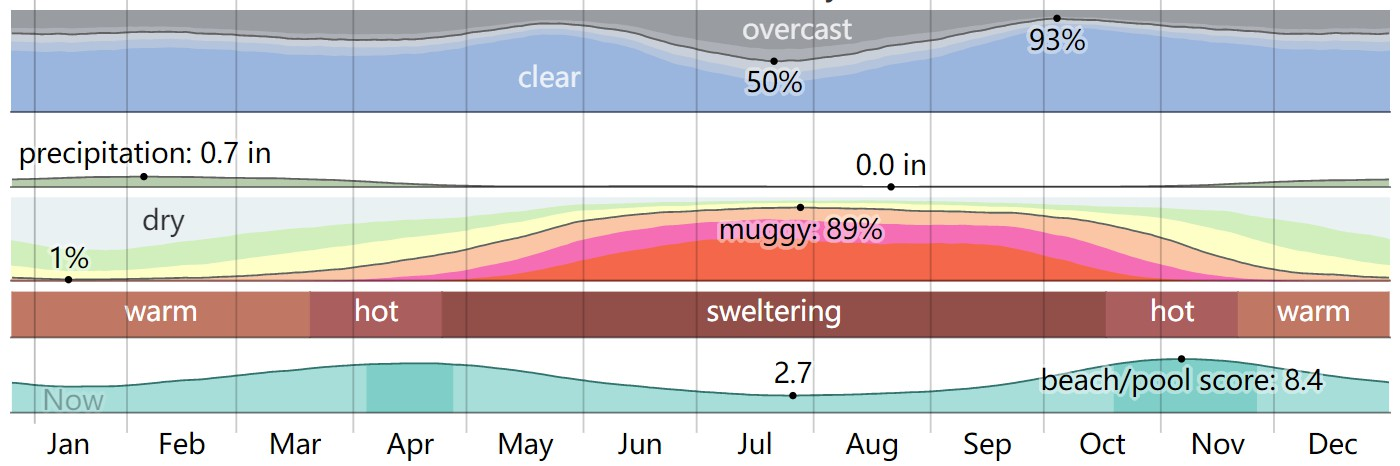
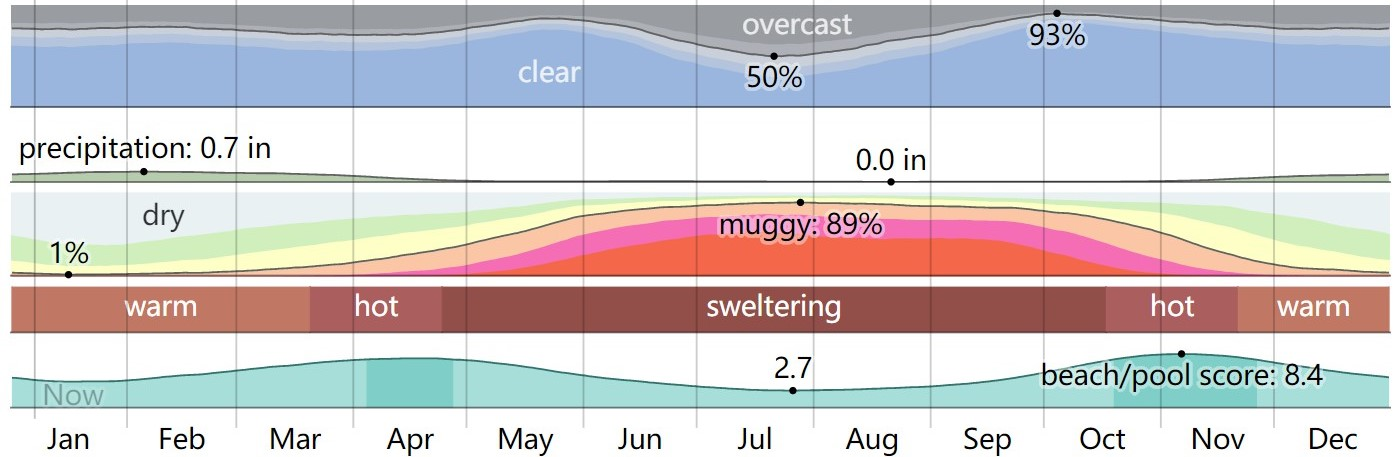
add and update pages

diff --git a/components/climate.html b/components/climate.html
@@ -1,25 +1,191 @@
 <div class="container-fluid">
     <div class="tmc-home-body">
-      <h1 class="animated bounceInLeft" data-tr-zh="迪拜气候条件" >Climate Conditions in Dubai</h1>
-      <div style="text-align: center;"><img src="./assets/scut.jpg" style="width: 80%;"></div>
-      <p data-tr-key="tr-scut-1">
-        Located in Guangzhou, South China University of Technology is a national key university directly under the Ministry of education. It is the first winner of "national civilized campus". The school has a long history, which can be traced back to 1918 and it was formally established in 1952 during the adjustment of national institutions of higher learning, and became one of the four major engineering colleges in New China. In 2017, it was selected into the list of "double first-class" construction class A universities, and ranked 201-300 in the "Academic Ranking of World Universities" in 2018.
-      </p>
-      <p data-tr-key="tr-scut-2">
-        Nowadays, South China University of Technology has developed into a comprehensive research university with the combination of science, engineering and medicine, and the coordinated development of management, economics, literature, law and other disciplines. Light industry technology and engineering, architecture, food science and engineering, chemical engineering and technology, environmental science and engineering, material science and engineering, mechanical engineering, management science and engineering and other disciplines have reached the top 10% in China as a whole; 9 disciplines have entered the top 1% of ESI in the world, including engineering, material science, chemistry and agricultural science In the first 1 ‰, the number of selected colleges and universities ranked sixth in the country and the first in South China.
-      </p>
-      <p data-tr-key="tr-scut-3">
-        Since its establishment, the university has trained more than 510000 students of all kinds in higher education for the country, and a large number of alumni have become the backbone of science and technology, famous entrepreneurs and leading cadres in China. The university is known as the cradle of engineers and entrepreneurs. The employment rate of graduates has been in the forefront of colleges and universities in China and Guangdong Province for many years. In 2017, it was selected as the national "mass entrepreneurship and innovation" demonstration base.
-      </p>
-      <p data-tr-key="tr-scut-4">
-        The university promotes the construction of first-class universities with strong original scientific research and innovation ability, and has 27 national scientific research platforms and 185 provincial and ministerial scientific research platforms, ranking first in the number of universities in China and Guangdong. Since 2009, the number of Chinese patent awards has ranked first in Colleges and universities in China; in 2015, the index of patent technology transfer ranked first in Colleges and universities in China.
-      </p>
-      <p data-tr-key="tr-scut-5">
-        In 2017, the Guangzhou International Campus of South China University of technology was signed by the Ministry of education, Guangdong Province, Guangzhou City and South China University of technology, which is a new engine for the construction and development of "double first class" of the University, and also a new exploration of higher education in China. The campus adopts the way of "Chinese based, international coordination", relying on the existing superior discipline resources and science and engineering characteristics of the University, and in combination with Oxford University, Michigan University and other no less than 20 world-famous first-class universities, striving to build a world-class demonstration campus with high level, international, research-oriented and new engineering characteristics.
-      </p>
-      <p data-tr-key="tr-scut-6">
-        In the new historical development starting point, the university put forward the strategic goal of building a world-class university in 2052. The school will adhere to the motto of "erudite, thoughtful and practical", adhere to the spirit of "building the school with academic knowledge, strengthening the school with talents, opening the school to the outside world, developing the school with culture", carry forward the spirit of "upholding virtue and learning, striving for self-improvement, pragmatic innovation and excellence", seize the important opportunity of "double first-class" construction and Guangzhou International Campus Construction, adhere to the development of connotation, deepen comprehensive reform, comprehensively improve quality and face the world The goal of a world-class university is to forge ahead.
-      </p>
+      <h1 class="animated bounceInLeft" data-tr-zh="迪拜气候条件">Climate Conditions in Dubai</h1>
+      <p data-tr-key="tr-climate-1">In Dubai, the summers are long, sweltering, oppressive, arid, and partly cloudy and the winters are comfortable, dry, and mostly clear. Over the course of the year, the temperature typically varies from 57°F to 106°F and is rarely below 52°F or above 112°F.</p>
+      <p data-tr-key="tr-climate-2">Based on the beach/pool score, the best times of year to visit Dubai for hot-weather activities are for the entire month of April and from mid October to late November.</p>
+      <div style="text-align: center;">
+        <img src="./assets/climate/climate_summary.jpg" style="width: 80%;">
+        <div>
+          <span data-tr-zh="气候概要">Climate Summary &nbsp &nbsp</span>
+          <a href="https://weatherspark.com/y/105470/Average-Weather-in-Dubai-United-Arab-Emirates-Year-Round" style="text-decoration: none; color: grey;" data-tr-zh="图表来源：Weather Spark">(Table Source: Weather Spark)</a>
+        </div>
+      </div>
+
+      <h2 data-tr-zh="温度" >Temperature</h2>
+      <p data-tr-key="tr-temperature-1">The hot season lasts for 4.3 months, from May 13 to September 23, with an average daily high temperature above 100°F. The hottest day of the year is August 1, with an average high of 106°F and low of 86°F.</p>
+      <p data-tr-key="tr-temperature-2">The cool season lasts for 3.1 months, from December 2 to March 4, with an average daily high temperature below 81°F. The coldest day of the year is January 15, with an average low of 57°F and high of 75°F.</p>
+      <div style="text-align: center;">
+        <img src="./assets/climate/average_temperature.jpg" style="width: 80%;">
+        <div>
+          <span data-tr-zh="平均高温和低温">Average High and Low Temperature &nbsp &nbsp</span>
+          <a href="https://weatherspark.com/y/105470/Average-Weather-in-Dubai-United-Arab-Emirates-Year-Round" style="text-decoration: none; color: grey;" data-tr-zh="图表来源：Weather Spark">(Table Source: Weather Spark)</a>
+        </div>
+        <p data-tr-key="tr-temperature-3" style="text-align: center; margin-top: 0.5em; margin-left: 20%; margin-right: 20%; color:grey; font-size: 0.7em;">The daily average high (red line) and low (blue line) temperature, with 25th to 75th and 10th to 90th percentile bands. The thin dotted lines are the corresponding average perceived temperatures.</p>
+      </div>
+      <p data-tr-key="tr-temperature-4">The figure below shows you a compact characterization of the entire year of hourly average temperatures. The horizontal axis is the day of the year, the vertical axis is the hour of the day, and the color is the average temperature for that hour and day.</p>
+      <div style="text-align: center;">
+        <img src="./assets/climate/hourly_temperature.jpg" style="width: 80%;">
+        <div>
+          <span data-tr-zh="平均小时气温">Average Hourly Temperature &nbsp &nbsp</span>
+          <a href="https://weatherspark.com/y/105470/Average-Weather-in-Dubai-United-Arab-Emirates-Year-Round" style="text-decoration: none; color: grey;">(Table Source: Weather Spark)</a></span>
+        <p data-tr-key="tr-temperature-5" style="text-align: center; margin-top: 0.5em; margin-left: 20%; margin-right: 20%; color:grey; font-size: 0.7em;">The average hourly temperature, color coded into bands. The shaded overlays indicate night and civil twilight.</p>
+        </div>
+      </div>
+
+      <h2 data-tr-zh="云彩" >Clouds</h2>
+      <p data-tr-key="tr-cloud-1">In Dubai, the average percentage of the sky covered by clouds experiences significant seasonal variation over the course of the year.</p>
+      <p data-tr-key="tr-cloud-2">The clearer part of the year in Dubai begins around September 1 and lasts for 6.9 months, ending around March 31. On October 4, the clearest day of the year, the sky is clear, mostly clear, or partly cloudy 93% of the time, and overcast or mostly cloudy 7% of the time.</p>
+      <p data-tr-key="tr-cloud-3">The cloudier part of the year begins around March 31 and lasts for 5.1 months, ending around September 1. On July 21, the cloudiest day of the year, the sky is overcast or mostly cloudy 50% of the time, and clear, mostly clear, or partly cloudy 50% of the time.</p>
+      <div style="text-align: center;">
+        <img src="./assets/climate/cloud.jpg" style="width: 80%;">
+        <div>
+          <span data-tr-zh="云量类别">Cloud Cover Categories &nbsp &nbsp</span>
+          <a href="https://weatherspark.com/y/105470/Average-Weather-in-Dubai-United-Arab-Emirates-Year-Round" style="text-decoration: none; color: grey;">(Table Source: Weather Spark)</a></span>
+        <p data-tr-key="tr-cloud-4" style="text-align: center; margin-top: 0.5em; margin-left: 20%; margin-right: 20%; color:grey; font-size: 0.7em;">The percentage of time spent in each cloud cover band, categorized by the percentage of the sky covered by clouds.</p>
+        </div>
+      </div>
+
+      <h2 data-tr-zh="降水" >Precipitation</h2>
+      <p data-tr-key="tr-preci-1">Dubai does not experience significant seasonal variation in the frequency of wet days (i.e., those with greater than 0.04 inches of liquid or liquid-equivalent precipitation). The frequency ranges from 0% to 8%, with an average value of 3%.</p>
+      <p data-tr-key="tr-preci-2">Among wet days, we distinguish between those that experience rain alone, snow alone, or a mixture of the two. Based on this categorization, the most common form of precipitation throughout the year is rain alone, with a peak probability of 8% on March 14.</p>
+      <div style="text-align: center;">
+        <img src="./assets/climate/precipitation.jpg" style="width: 80%;">
+        <div>
+          <span data-tr-zh="每日降水机率">Daily Chance of Precipitation &nbsp &nbsp</span>
+          <a href="https://weatherspark.com/y/105470/Average-Weather-in-Dubai-United-Arab-Emirates-Year-Round" style="text-decoration: none; color: grey;">(Table Source: Weather Spark)</a></span>
+        <p data-tr-key="tr-preci-3" style="text-align: center; margin-top: 0.5em; margin-left: 20%; margin-right: 20%; color:grey; font-size: 0.7em;">The percentage of days in which various types of precipitation are observed, excluding trace quantities: rain alone, snow alone, and mixed (both rain and snow fell in the same day).</p>
+        </div>
+      </div>
+
+
+      <h2 data-tr-zh="降雨量" >Rainfall</h2>
+      <p data-tr-key="tr-rain-1">To show variation within the months and not just the monthly totals, we show the rainfall accumulated over a sliding 31-day period centered around each day of the year. Dubai experiences some seasonal variation in monthly rainfall.</p>
+      <p data-tr-key="tr-rain-2">The rainy period of the year lasts for 2.4 months, from January 6 to March 17, with a sliding 31-day rainfall of at least 0.5 inches. The most rain falls during the 31 days centered around February 5, with an average total accumulation of 0.7 inches.</p>
+      <p data-tr-key="tr-rain-3">The rainless period of the year lasts for 9.6 months, from March 17 to January 6. The least rain falls around August 21, with an average total accumulation of 0.0 inches.</p>
+      <div style="text-align: center;">
+        <img src="./assets/climate/rainfall.jpg" style="width: 80%;">
+        <div>
+          <span data-tr-zh="平均月降雨量">Average Monthly Rainfall &nbsp &nbsp</span>
+          <a href="https://weatherspark.com/y/105470/Average-Weather-in-Dubai-United-Arab-Emirates-Year-Round" style="text-decoration: none; color: grey;">(Table Source: Weather Spark)</a></span>
+        <p data-tr-key="tr-rain-4" style="text-align: center; margin-top: 0.5em; margin-left: 20%; margin-right: 20%; color:grey; font-size: 0.7em;">The average rainfall (solid line) accumulated over the course of a sliding 31-day period centered on the day in question, with 25th to 75th and 10th to 90th percentile bands. The thin dotted line is the corresponding average liquid-equivalent snowfall.</p>
+        </div>
+      </div>
+
+      <h2 data-tr-zh="日照" >Sun</h2>
+      <p data-tr-key="tr-sun-1">The length of the day in Dubai varies over the course of the year. In 2020, the shortest day is December 21, with 10 hours, 35 minutes of daylight; the longest day is June 21, with 13 hours, 42 minutes of daylight.</p>
+      <div style="text-align: center;">
+        <img src="./assets/climate/sun.jpg" style="width: 80%;">
+        <div>
+          <span data-tr-zh="日光和曙光/暮光时数">Hours of Daylight and Twilight &nbsp &nbsp</span>
+          <a href="https://weatherspark.com/y/105470/Average-Weather-in-Dubai-United-Arab-Emirates-Year-Round" style="text-decoration: none; color: grey;">(Table Source: Weather Spark)</a></span>
+        <p data-tr-key="tr-sun-2" style="text-align: center; margin-top: 0.5em; margin-left: 20%; margin-right: 20%; color:grey; font-size: 0.7em;">The number of hours during which the Sun is visible (black line). From bottom (most yellow) to top (most gray), the color bands indicate: full daylight, twilight (civil, nautical, and astronomical), and full night.</p>
+        </div>
+      </div>
+      <p data-tr-key="tr-sun-3">The earliest sunrise is at 5:28 AM on June 9, and the latest sunrise is 1 hour, 38 minutes later at 7:06 AM on January 14. The earliest sunset is at 5:29 PM on November 29, and the latest sunset is 1 hour, 44 minutes later at 7:13 PM on July 1.</p>
+      <div style="text-align: center;">
+        <img src="./assets/climate/sunrise_set.jpg" style="width: 80%;">
+        <div>
+          <span data-tr-zh="伴有曙光/暮光的日出和日落">Sunrise & Sunset with Twilight &nbsp &nbsp</span>
+          <a href="https://weatherspark.com/y/105470/Average-Weather-in-Dubai-United-Arab-Emirates-Year-Round" style="text-decoration: none; color: grey;">(Table Source: Weather Spark)</a></span>
+        <p data-tr-key="tr-sun-4" style="text-align: center; margin-top: 0.5em; margin-left: 20%; margin-right: 20%; color:grey; font-size: 0.7em;">The solar day over the course of the year 2020. From bottom to top, the black lines are the previous solar midnight, sunrise, solar noon, sunset, and the next solar midnight. The day, twilights (civil, nautical, and astronomical), and night are indicated by the color bands from yellow to gray.</p>
+        </div>
+      </div>
+
+      <h2 data-tr-zh="太阳能" >Solar Energy</h2>
+      <p data-tr-key="tr-solar-1">This section discusses the total daily incident shortwave solar energy reaching the surface of the ground over a wide area, taking full account of seasonal variations in the length of the day, the elevation of the Sun above the horizon, and absorption by clouds and other atmospheric constituents. Shortwave radiation includes visible light and ultraviolet radiation.</p>
+      <p data-tr-key="tr-solar-2">The average daily incident shortwave solar energy experiences significant seasonal variation over the course of the year.</p>
+      <p data-tr-key="tr-solar-3">The brighter period of the year lasts for 2.6 months, from April 25 to July 12, with an average daily incident shortwave energy per square meter above 7.2 kWh. The brightest day of the year is June 3, with an average of 8.0 kWh.</p>
+      <p data-tr-key="tr-solar-4">The darker period of the year lasts for 2.9 months, from November 10 to February 5, with an average daily incident shortwave energy per square meter below 4.9 kWh. The darkest day of the year is December 19, with an average of 4.1 kWh.</p>
+      <div style="text-align: center;">
+        <img src="./assets/climate/solar.jpg" style="width: 80%;">
+        <div>
+          <span data-tr-zh="平均每日入射短波太阳能">Average Daily Incident Shortwave Solar Energy &nbsp &nbsp</span>
+          <a href="https://weatherspark.com/y/105470/Average-Weather-in-Dubai-United-Arab-Emirates-Year-Round" style="text-decoration: none; color: grey;">(Table Source: Weather Spark)</a></span>
+        <p data-tr-key="tr-solar-5" style="text-align: center; margin-top: 0.5em; margin-left: 20%; margin-right: 20%; color:grey; font-size: 0.7em;">The average daily shortwave solar energy reaching the ground per square meter (orange line), with 25th to 75th and 10th to 90th percentile bands.</p>
+        </div>
+      </div>
+
+      <h2 data-tr-zh="湿度" >Humidity</h2>
+      <p data-tr-key="tr-humid-1">We base the humidity comfort level on the dew point, as it determines whether perspiration will evaporate from the skin, thereby cooling the body. Lower dew points feel drier and higher dew points feel more humid. Unlike temperature, which typically varies significantly between night and day, dew point tends to change more slowly, so while the temperature may drop at night, a muggy day is typically followed by a muggy night.</p>
+      <p data-tr-key="tr-humid-2">Dubai experiences extreme seasonal variation in the perceived humidity.</p>
+      <p data-tr-key="tr-humid-3">The muggier period of the year lasts for 7.3 months, from April 12 to November 21, during which time the comfort level is muggy, oppressive, or miserable at least 23% of the time. The muggiest day of the year is July 28, with muggy conditions 89% of the time.</p>
+      <p data-tr-key="tr-humid-4">The least muggy day of the year is January 16, with muggy conditions 1% of the time.</p>
+      <div style="text-align: center;">
+        <img src="./assets/climate/humidity.jpg" style="width: 80%;">
+        <div>
+          <span data-tr-zh="湿度舒适水平">Humidity Comfort Levels &nbsp &nbsp</span>
+          <a href="https://weatherspark.com/y/105470/Average-Weather-in-Dubai-United-Arab-Emirates-Year-Round" style="text-decoration: none; color: grey;">(Table Source: Weather Spark)</a></span>
+        <p data-tr-key="tr-humid-5" style="text-align: center; margin-top: 0.5em; margin-left: 20%; margin-right: 20%; color:grey; font-size: 0.7em;">The percentage of time spent at various humidity comfort levels, categorized by dew point.</p>
+        </div>
+      </div>
+
+      <h2 data-tr-zh="刮风" >Wind</h2>
+      <p data-tr-key="tr-wind-1">This section discusses the wide-area hourly average wind vector (speed and direction) at 10 meters above the ground. The wind experienced at any given location is highly dependent on local topography and other factors, and instantaneous wind speed and direction vary more widely than hourly averages.</p>
+      <p data-tr-key="tr-wind-2">The average hourly wind speed in Dubai experiences mild seasonal variation over the course of the year.</p>
+      <p data-tr-key="tr-wind-3">The windier part of the year lasts for 5.2 months, from December 30 to June 6, with average wind speeds of more than 8.1 miles per hour. The windiest day of the year is March 14, with an average hourly wind speed of 9.3 miles per hour.</p>
+      <p data-tr-key="tr-wind-4">The calmer time of year lasts for 6.7 months, from June 6 to December 30. The calmest day of the year is October 11, with an average hourly wind speed of 6.9 miles per hour.</p>
+      <div style="text-align: center;">
+        <img src="./assets/climate/wind_speed.jpg" style="width: 80%;">
+        <div>
+          <span data-tr-zh="平均风速">Average Wind Speed &nbsp &nbsp</span>
+          <a href="https://weatherspark.com/y/105470/Average-Weather-in-Dubai-United-Arab-Emirates-Year-Round" style="text-decoration: none; color: grey;">(Table Source: Weather Spark)</a></span>
+        <p data-tr-key="tr-wind-5" style="text-align: center; margin-top: 0.5em; margin-left: 20%; margin-right: 20%; color:grey; font-size: 0.7em;">The average of mean hourly wind speeds (dark gray line), with 25th to 75th and 10th to 90th percentile bands.</p>
+        </div>
+      </div>
+      <p data-tr-key="tr-wind-6">The predominant average hourly wind direction in Dubai varies throughout the year.</p>
+      <p data-tr-key="tr-wind-7">The wind is most often from the east for 4.3 weeks, from August 2 to September 1, with a peak percentage of 32% on August 18. The wind is most often from the west for 11 months, from September 1 to August 2, with a peak percentage of 51% on January 1.</p>
+      <div style="text-align: center;">
+        <img src="./assets/climate/wind_direction.jpg" style="width: 80%;">
+        <div>
+          <span>Direction &nbsp &nbsp</span>
+          <a href="https://weatherspark.com/y/105470/Average-Weather-in-Dubai-United-Arab-Emirates-Year-Round" style="text-decoration: none; color: grey;">(Table Source: Weather Spark)</a></span></span>
+        <p data-tr-key="tr-wind-8" style="text-align: center; margin-top: 0.5em; margin-left: 20%; margin-right: 20%; color:grey; font-size: 0.7em;">The percentage of hours in which the mean wind direction is from each of the four cardinal wind directions, excluding hours in which the mean wind speed is less than 1.0 mph. The lightly tinted areas at the boundaries are the percentage of hours spent in the implied intermediate directions (northeast, southeast, southwest, and northwest).</p>
+        </div>
+      </div>
+
+      <h2 data-tr-zh="水温" >Water Temperature</h2>
+      <p data-tr-key="tr-water-1">Dubai is located near a large body of water (e.g., ocean, sea, or large lake). This section reports on the wide-area average surface temperature of that water.</p>
+      <p data-tr-key="tr-water-2">The average water temperature experiences significant seasonal variation over the course of the year.</p>
+      <p data-tr-key="tr-water-3">The time of year with warmer water lasts for 4.1 months, from June 12 to October 15, with an average temperature above 88°F. The day of the year with the warmest water is August 6, with an average temperature of 92°F.</p>
+      <p data-tr-key="tr-water-4">The time of year with cooler water lasts for 3.3 months, from December 25 to April 4, with an average temperature below 75°F. The day of the year with the coolest water is February 9, with an average temperature of 71°F.</p>
+      <div style="text-align: center;">
+        <img src="./assets/climate/water_temperature.jpg" style="width: 80%;">
+        <div>
+          <span data-tr-zh="平均水温">Average Water Temperature &nbsp &nbsp</span>
+          <a href="https://weatherspark.com/y/105470/Average-Weather-in-Dubai-United-Arab-Emirates-Year-Round" style="text-decoration: none; color: grey;">(Table Source: Weather Spark)</a></span>
+        <p data-tr-key="tr-water-5" style="text-align: center; margin-top: 0.5em; margin-left: 20%; margin-right: 20%; color:grey; font-size: 0.7em;">The daily average water temperature (purple line), with 25th to 75th and 10th to 90th percentile bands.</p>
+        </div>
+      </div>
+
+      <h2 data-tr-zh="最佳拜访时间" >Best Time of Year to Visit</h2>
+      <p data-tr-key="tr-visit-1">To characterize how pleasant the weather is in Dubai throughout the year, we compute two travel scores.</p>
+      <p data-tr-key="tr-visit-2">The tourism score favors clear, rainless days with perceived temperatures between 65°F and 80°F. Based on this score, the best time of year to visit Dubai for general outdoor tourist activities is from mid November to late March, with a peak score in the third week of December.</p>
+      <div style="text-align: center;">
+        <img src="./assets/climate/besttime.jpg" style="width: 80%;">
+        <div>
+          <span data-tr-zh="旅游得分">Score &nbsp &nbsp</span>
+          <a href="https://weatherspark.com/y/105470/Average-Weather-in-Dubai-United-Arab-Emirates-Year-Round" style="text-decoration: none; color: grey;">(Table Source: Weather Spark)</a></span></span>
+        <p data-tr-key="tr-visit-3" style="text-align: center; margin-top: 0.5em; margin-left: 20%; margin-right: 20%; color:grey; font-size: 0.7em;">The tourism score (filled area), and its constituents: the temperature score (red line), the cloud cover score (blue line), and the precipitation score (green line).</p>
+        </div>
+      </div>
+      <p data-tr-key="tr-visit-4">The beach/pool score favors clear, rainless days with perceived temperatures between 75°F and 90°F. Based on this score, the best times of year to visit Dubai for hot-weather activities are for the entire month of April and from mid October to late November, with a peak score in the first week of November.</p>
+      <div style="text-align: center;">
+        <img src="./assets/climate/beachpool_score.jpg" style="width: 80%;">
+        <div>
+          <span data-tr-zh="沙滩/泳池得分">Beach/Pool Score &nbsp &nbsp</span>
+          <a href="https://weatherspark.com/y/105470/Average-Weather-in-Dubai-United-Arab-Emirates-Year-Round" style="text-decoration: none; color: grey;">(Table Source: Weather Spark)</a></span>
+        <p data-tr-key="tr-visit-5" style="text-align: center; margin-top: 0.5em; margin-left: 20%; margin-right: 20%; color:grey; font-size: 0.7em;">The beach/pool score (filled area), and its constituents: the temperature score (red line), the cloud cover score (blue line), and the precipitation score (green line).</p>
+        </div>
+      </div>
+
+
+
+
+
+
+
+
+
     </div>
   </div>
   

diff --git a/common.js b/common.js
@@ -60,6 +60,76 @@ window.dict = {
   "sdc18-4": "(3) 高效能源：从设备到调控各层面减少房屋带来的能源与资源的损耗，我们鼓励环保绿色节能的设计与生活方式。在有限的屋面面积下，高效的整合光伏系统。",
   "sdc18-5": "(4) 智能管家：长屋智能管家掌握一套机器学习算法(AI)，通过实时数据与用户反馈计算出满足舒适需求同时最节能的设备运作模式并自动调控。完善便捷的智能交互系统，适用于年轻人的生活情景，智能的能源管理系统可以让住户方便的管控房屋的水电设备。",
   "sdc18-6": "长屋计划获得了SDC2018总分冠军，工程设计第一名、创新能力第一名、市场潜力第二名、建筑设计第二名、宣传推广第四名的好成绩。",
+  "tr-climate-1": "在迪拜，夏季长、酷热、闷热难受、干旱和部分多云，冬季舒适、干燥和大部分晴天。 在一年中，气温通常在14°C到41°C之间变化，极少低于11°C或高于44°C。",
+  "tr-climate-2": "根据沙滩/泳池得分，拜访迪拜开展热天活动的最佳时间是四月整月和从十月中旬至十一月下旬。",
+  "tr-temperature-1": "炎热季节持续4.3个月，从5月13日到9月23日，每日平均高温超过38°C。 一年中最热的一天是8月1日，平均高温为41°C，平均低温为30°C。",
+  "tr-temperature-2": "凉爽季节持续3.1个月，从12月2日到3月4日，每日平均高温低于27°C。 一年中最冷的一天是1月15日，平均低温为14°C，平均高温为24°C。",
+  "tr-temperature-3": "用第25-75和第10-90百分位区间表示的每日平均高温（红线）和低温（蓝线）。 细虚线是对应的平均感知气温。",
+  "tr-temperature-4": "下图向您显示全年每小时平均气温的简要特征。 横轴表示一年中的天，纵轴表示一天中的小时，颜色是该小时和天的平均气温。",
+  "tr-temperature-5": "每小时平均温度，加以数带着色。 阴影叠加表示夜晚和民用曙光/暮光。",
+  "tr-cloud-1": "在迪拜，天空被云彩覆盖的平均百分比全年经历较大的季节性变化。",
+  "tr-cloud-2": "在迪拜，一年中较晴朗的天气在9月1日前后开始，持续6.9个月，在3月31日前后终止。 10月4日是一年中最晴朗的日子，93%的时间天空晴朗、大部分晴朗或部分多云，7%的时间多云或大部分多云。",
+  "tr-cloud-3": "一年中较多云的天气在3月31日前后开始，持续5.1个月，在9月1日前后终止。 7月21日是一年中最多云的日子，50%的时间天空多云或大部分多云，50%的时间晴朗、大部分晴朗或部分多云。",
+  "tr-cloud-4": "在每一云彩覆盖带所花时间的百分比，按天空被云彩覆盖的百分比分类。",
+  "tr-preci-1": "迪拜在潮湿天气（即有超过1毫米水分或水当量降水的天气）频率方面有较大的季节性变化。 频率范围从0%到8%，平均值为3%。",
+  "tr-preci-2": "我们将潮湿的天气区分为仅下雨、仅下雪或雨夹雪。 根据本分类，全年最常见的降水形式是仅下雨，其峰值概率为8%，在3月14日。",
+  "tr-preci-3": "观察到不同类型降水的天数百分比（不包括微量）：仅为雨水、仅为雪水和雨雪混合（同一天既下雨又下雪）。",
+  "tr-rain-1": "为了显示几个月内的变化，而不仅仅是显示每月总量，我们显示以一年中的每一天为中心的、连续31天阶段的累计降雨量，。 迪拜的每月降雨量有一些季节性变化。",
+  "tr-rain-2": "一年的多雨阶段持续2.4个月，从1月6日到3月17日，其相关31天的降雨量至少为13毫米。 在以2月5日为中心的31天期间降雨最多，平均总累计雨量为17毫米。",
+  "tr-rain-3": "一年中最少降雨的阶段持续9.6个月，从3月17日到1月6日。 最少雨的日期在8月21日前后，平均总累计降雨量为0毫米。",
+  "tr-rain-4": "用第25-75和第10-90百分位区间表示在滑动31天期间累积、以相关日期为中心的平均降雨（实线）。 细虚线是对应的平均水当量降雪。",
+  "tr-sun-1": "迪拜的白天长度全年变化。 2020年，最短的一天是12月21日，有10小时35分钟的日光；最长的一天是6月21日，有13小时42分钟的日光。",
+  "tr-sun-2": "可见太阳的时数（黑线）。 从下（最深的黄色）至上（最深的灰色），颜色带表示：全日光、曙光/暮光（民用、航海和天文）和全黑夜。",
+  "tr-sun-3": "最早的日出日期和时间是6月9日 上午5:28，最晚的日出时间比最早的日出时间晚1小时38分钟，在1月14日 上午7:06。 最早的日落日期和时间是11月29日 下午5:29，最晚的日落时间比最早的日落时间晚1小时44分钟，在7月1日 下午7:13。",
+  "tr-sun-4": "2020年的太阳日。 从下至上，黑线是前一个日照午夜、日出、日照中午、日落和下一个日照午夜。 白天、曙光/暮光（民用、航海和天文）和夜晚用从黄色到灰色颜色带表。",
+  "tr-solar-1": "本节讨论达到大面积地表的总每日入射短波太阳能，全面考虑白天长度、太阳超过地平线的高度以及被云彩和其他大气成分吸收的季节性变化。 短波辐射包括可见光和紫外线辐射。",
+  "tr-solar-2": "平均每日入射短波太阳能全年经历较大季节性变化。",
+  "tr-solar-3": "一年中较明亮的阶段持续2.6个月，从4月25日到7月12日，每平方米平均每日入射短波能量超过7.2千瓦时。 一年中最明亮的一天是6月3日，平均能量为8.0千瓦时。",
+  "tr-solar-4": "一年中较黑暗的阶段持续2.9个月，从11月10日到2月5日，每平方米平均每日入射短波能量低于4.9千瓦时。 一年中最黑暗的一天是12月19日，平均能量为4.1千瓦时。",
+  "tr-solar-5": "用第25-75和第10-90百分位区间表示的每平方米达到地面的平均每日短波太阳能（橘黄线条）。",
+  "tr-humid-1": "我们根据露点确定湿度舒适度，因为露点决定汗水是否会从皮肤上蒸发，从而使身体感到凉爽。 较低的露点产生较干燥的感觉，较高的露点产生较潮湿的感觉。 与气温不同（气温通常在夜间和白天差别很大），露点的变化较慢，因此虽然气温在夜间可能下降，闷热的白天通常会接着有闷热的夜晚。",
+  "tr-humid-2": "迪拜的感知湿度有极大季节性变化。",
+  "tr-humid-3": "一年的较闷热阶段持续7.3个月，从4月12日到11月21日，在此阶段至少有23%的时间舒适度为闷热、压抑或难受23%。 一年中最闷热的一天是7月28日，89%的时间会出现闷热气况。",
+  "tr-humid-4": "一年中最闷热的一天是1月16日，1%的时间会出现闷热气况。",
+  "tr-humid-5": "在各湿度舒适水平所花时间的百分比，按露点分类。",
+  "tr-wind-1": "本节讨论在地面上方10米的广域小时平均风矢量（速度和方向）。 在任何一个特定地点经历的刮风在很大程度上取决于当地地形和其他因素，瞬时风速和风向比小时平均值变化更大。",
+  "tr-wind-2": "在迪拜，平均小时风速经历很小的季节性变化。",
+  "tr-wind-3": "一年中较多风的阶段持续5.2个月，从12月30日到6月6日，平均风速超过每小时13.1公里。 一年中最多风的一天是3月14日，平均小时风速为每小时15.0公里。",
+  "tr-wind-4": "一年中较平静的阶段持续6.7个月，从6月6日到12月30日。 一年中最平静的一天是10月11日，平均小时风速为每小时11.1公里。",
+  "tr-wind-5": "用第25-75和第10-90百分位区间表示的每小时平均风速（深灰色线条）。",
+  "tr-wind-6": "迪拜占主导地位的平均小时风向全年变化。",
+  "tr-wind-7": "风经常来自东面，持续4.3周，从8月2日到9月1日，峰值百分比为32%，在8月18日。 风经常来自西面，持续11个月，从9月1日到8月2日，峰值百分比为51%，在1月1日。",
+  "tr-wind-8": "平均风向来自四个主要风向的时数百分比，不包括平均风速低于每小时1.6公里的时数。 边界上的浅色区域是在隐含中间方向（东北、东南、西南和西北）度过的时数百分比。",
+  "tr-water-1": "迪拜临近大片水域（例如，海洋、大海或大湖）。 本节报告该水域的大范围平均表面气温。",
+  "tr-water-2": "平均水温全年经历极大季节性变化。",
+  "tr-water-3": "一年中出现较热水温的时间持续4.1个月，从6月12日到10月15日，平均水温超过31°C。 一年中最热水温的一天是8月6日，平均水温为33°C。",
+  "tr-water-4": "一年中出现较凉水温的时间持续3.3个月，从12月25日到4月4日，平均水温低于24°C。 一年中最凉水温的一天是2月9日，平均水温为21°C。",
+  "tr-water-5": "用第25-75和第10-90百分位区间表示的每日平均水温（紫色线条）。",
+  "tr-visit-1": "为了描绘迪拜全年的宜人天气，我们计算两项旅行得分。",
+  "tr-visit-2": "旅游得分偏向晴朗、不下雨的日子，感知温度在18°C和27°C之间。 根据此得分，拜访迪拜开展一般户外旅游活动的最佳时间是从十一月中旬至三月下旬，其中得分最高的是十二月第三周。",
+  "tr-visit-3": "旅游得分（填充区域）及其组成：温度得分（红线），云量得分（蓝线），以及降水得分（绿线）。",
+  "tr-visit-4": "沙滩/泳池得分偏向晴朗、不下雨的日期，感知温度在24°C和32°C之间。 根据此得分，拜访迪拜开展热天活动的最佳时间是四月整月和从十月中旬至十一月下旬，其中得分最高的是十一月第一周。",
+  "tr-visit-5": "沙滩/泳池得分（填充区域）及其组成：温度得分（红线），云量得分（蓝线），以及降水得分（绿线）。",
+  "tr-sponsor-1": "作为本次竞赛中国大陆唯一的参赛团队,今年,我们将跨出国门,走向世界,在更高的平台上展现来自中国团队的技术与实力:我们将协同跨学科专业技术与设计团队,采用可持续的被动技术和新进的主动技术,一体化结合工学与美学,设计与建造具有高效节能、有社会积极效应的太阳能房屋。在此过程中我们需要相关的技术、产品与资金的支持。为此,我们希望有志于推动国际太阳能绿色建筑发展的相关政府部门、技术产品企业和社会热心人士能够给予我们帮助!",
+  "tr-sponsor-2": "根据赞助商所赞助的折合价值总额，我们将赞助商分级为特级、一级、二级、三级赞助商，并作出以下回馈项目：",
+  
+
+
+
+
+
+
+
+
+
+
+
+
+
+
+
+
+
 };
   
 

diff --git a/components/sponsors.html b/components/sponsors.html
@@ -1,0 +1,26 @@
+<div class="container-fluid">
+    <div class="tmc-home-body">
+        <h1 class="animated bounceInLeft" data-tr-zh="合作伙伴">Sponsorship</h1>
+        <p data-tr-key="tr-sponsor-1">As the only team in this competition in mainland China, this year, we will cross out, go to the world, on a higher platform to show technology and strength from the Chinese team. Faced with different environmental conditions of high temperature, high humidity, and dustiness. On the one hand, we will take the traditional architecture climate adaptation strategies of the Middle East as a reference to our passive technology design, such as wind catcher and atrium ventilation technology. On the other hand, we will also introduce modern cutting-edge technology. We will integrate green building and artificial intelligence technology as well as adopting the rapid construction technology of prefabricated houses to build efficient and sustainable houses that are truly suitable for the Middle East.</p>
+        <div style="text-align: center;">
+            <img src="./assets/sponsor/support.jpg" style="width: 80%;">
+        </div>
+        <p data-tr-key="tr-sponsor-2">According to the total value provided by sponsors, we classify sponsors into super, first, second and third level sponsors, and make the following feedback:</p>
+        <div style="text-align: center;">
+            <img src="./assets/sponsor/sponsors.jpg" style="width: 80%;">
+        </div>
+        <p>
+            <p data-tr-zh="1、与华南理工大学建筑学院签订合作协议">1. Signed a cooperation agreement with School of Architecture, South China University of Technology.</p>
+            <p data-tr-zh="2、电视 / 报纸 / 学校 / 学院 / 团队的相关网站 / 官微 /INS/FB 等平台进行相关报道">2. Newspaper/school/college/team official wechat/Websites/ INS/ FB and other platforms for related reports.</p>
+            <p data-tr-zh="3、海报 / 展板 / 宣传册 / 队服 / 书刊等宣传品与纪念品印发合作公司相关宣传资料">3. Relevant promotional materials of the cooperative company will be printed or distribute on posters/display boards/brochures/team uniforms/books and other promotional materials and souvenirs.</p>
+            <p data-tr-zh="4、邀请企业参加竞赛现场产品与技术展示">4. Invite enterprises to participate in the on-site product and technology exhibition of the competition.</p>
+            <p data-tr-zh="5、本次竞赛成果与世博会展示列入企业后期对外宣传工程案例">5. The results of the competition and the exhibition of the expo were included in the case of the enterprise's later external publicity project.</p>
+            <p data-tr-zh="6、协助开拓国内 / 国外市场、达成最大宣传效益">6. Assisted in expanding domestic and foreign markets to achieve maximum publicity benefits.</p>
+            <p data-tr-zh="7、在校内举办针对在校学生与设计院员工的培训会、宣讲会及招聘会">7. Hold training sessions, information sessions and job fairs for students and staff of the design institute.</p>
+            <p data-tr-zh="8、团队师生到企业举办交流会及论坛">8. Teachers and students of the team will hold exchange meetings and forums in the enterprise.</p>
+            <p data-tr-zh="9、与高校团队共同完成专利 / 论文 / 研究等相关成果">9. Completed patent/thesis/research and other related achievements together with the university team.</p>
+            <p data-tr-zh="10、享有参赛项目技术与设计资料，图像多媒体">10. Enjoy the technical and design materials, image multimedia of the participating projects.</p>
+
+        </p>
+    </div>
+</div>

diff --git a/index.html b/index.html
@@ -85,8 +85,8 @@
           <div class="tmc-nav-item">
             <a data-tr-zh="设计策略">Design Strategy</a>
             <div class="tmc-dropdown">
-              <a href="#schedule" data-tr-zh="工作日程">Work Schedule</a>
-              <a href="#concept" data-tr-zh="项目概念">Concept</a>
+              <a href="#schedule" data-tr-zh="日常工作">Daily Routine</a>
+              <a href="#concept" data-tr-zh="项目概念">Project Concept</a>
             </div>
           </div>
           <div class="tmc-nav-item">
@@ -117,8 +117,8 @@
           <div class="tmc-nav-item">
             <a data-tr-zh="联系我们">Contacts</a>
             <div class="tmc-dropdown">
-              <a href="#" data-tr-zh="赞助商">Sponsors</a>
-              <a href="#" data-tr-zh="合作媒体">Media Partners</a>
+              <a href="#sponsors" data-tr-zh="合作伙伴">Sponsorship</a>
+              <!--<a href="#medias" data-tr-zh="合作媒体">Media Partners</a>!-->
               <a href="#support" data-tr-zh="支持Team SCUT">Support Team SCUT</a>
             </div>
           </div>

diff --git a/components/diary.html b/components/diary.html
@@ -70,6 +70,16 @@
             </div>
           </div><!-- 容器结束 -->
 
+          <div class="col-md-4 animated fadeInUp" style="animation-delay: 1s; animation-duration: 1.25s;">
+            <div class="thumbnail" data-url="https://mp.weixin.qq.com/s/T-0Z6xvWYkPfrT5WpBWV9w">
+              <img src="./assets/dimdim/dimdim5.jpg"  >
+              <div class="caption">
+                  <h3 data-tr-zh="2020新年快乐！">2020 HAPPY NEW YEAR！</h3>
+                  <p class="no-indent" data-tr-zh="TeamSCUT祝大家2020年新年快乐！">HAPPY NEW YEAR 2020！</p>
+              </div>
+            </div>
+          </div><!-- 容器结束 -->
+
         </div> <!-- .row 结束 -->
 
     </div>

diff --git a/components/schedule.html b/components/schedule.html
@@ -1,5 +1,8 @@
 <div class="container-fluid">
   <div class="tmc-home-body">
-    内容待定
+    <h1 class="animated bounceInLeft" data-tr-zh="日常工作">Daily Routine</h1>
+    <div style="text-align: center;">
+      <img src="./assets/schedule/schedule.jpg" style="width: 100%;">
+    </div>
   </div>
 </div>
